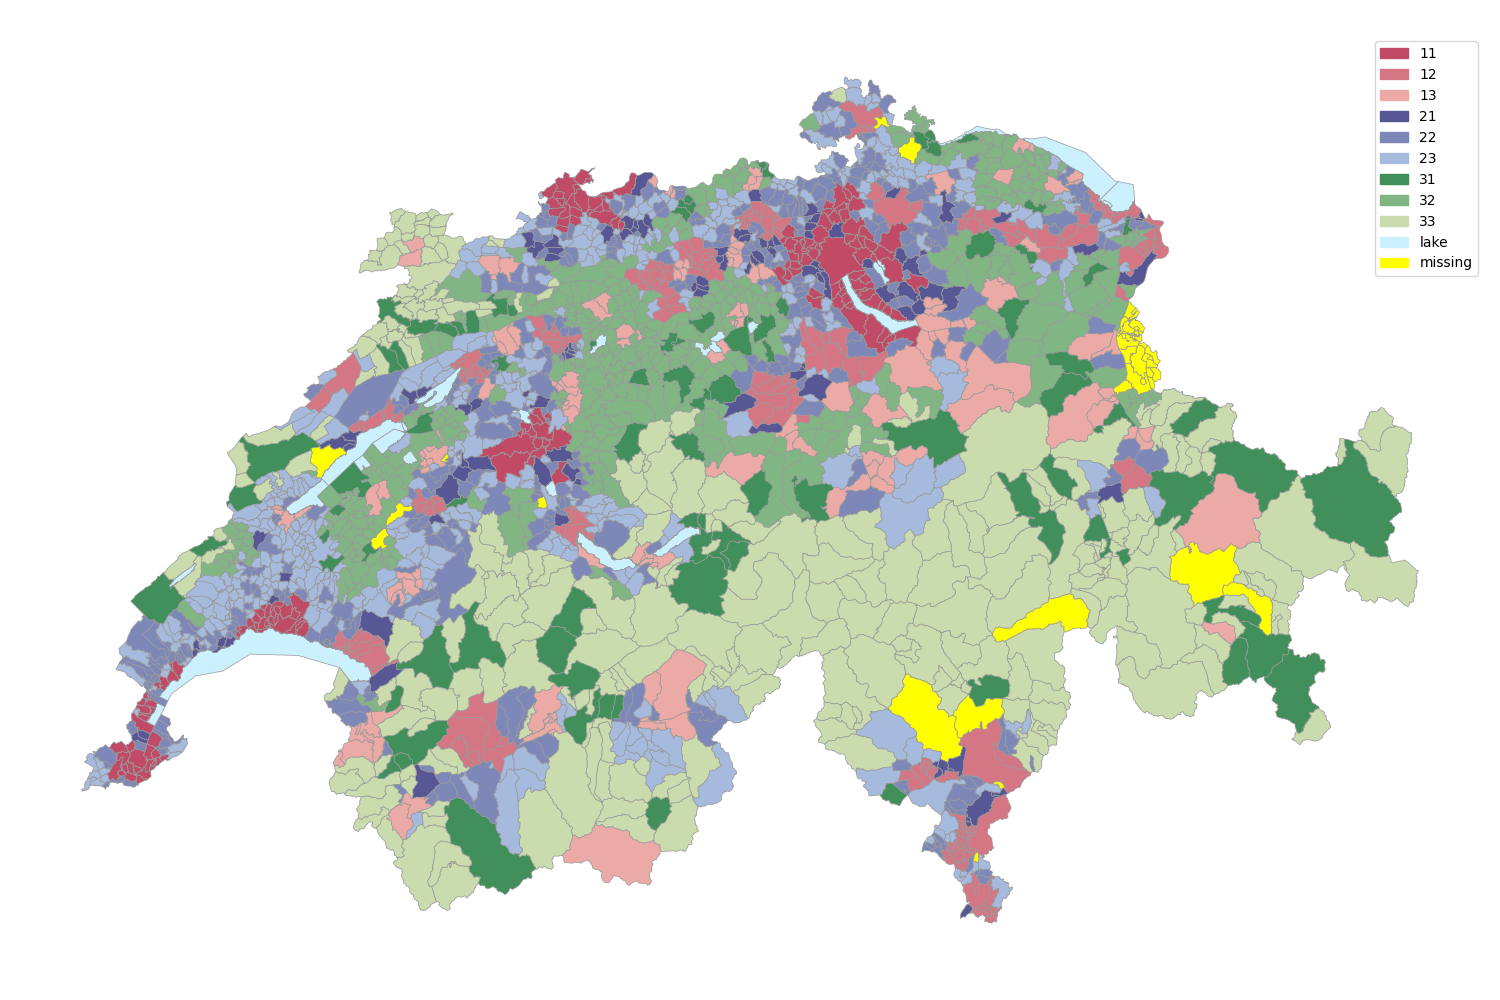
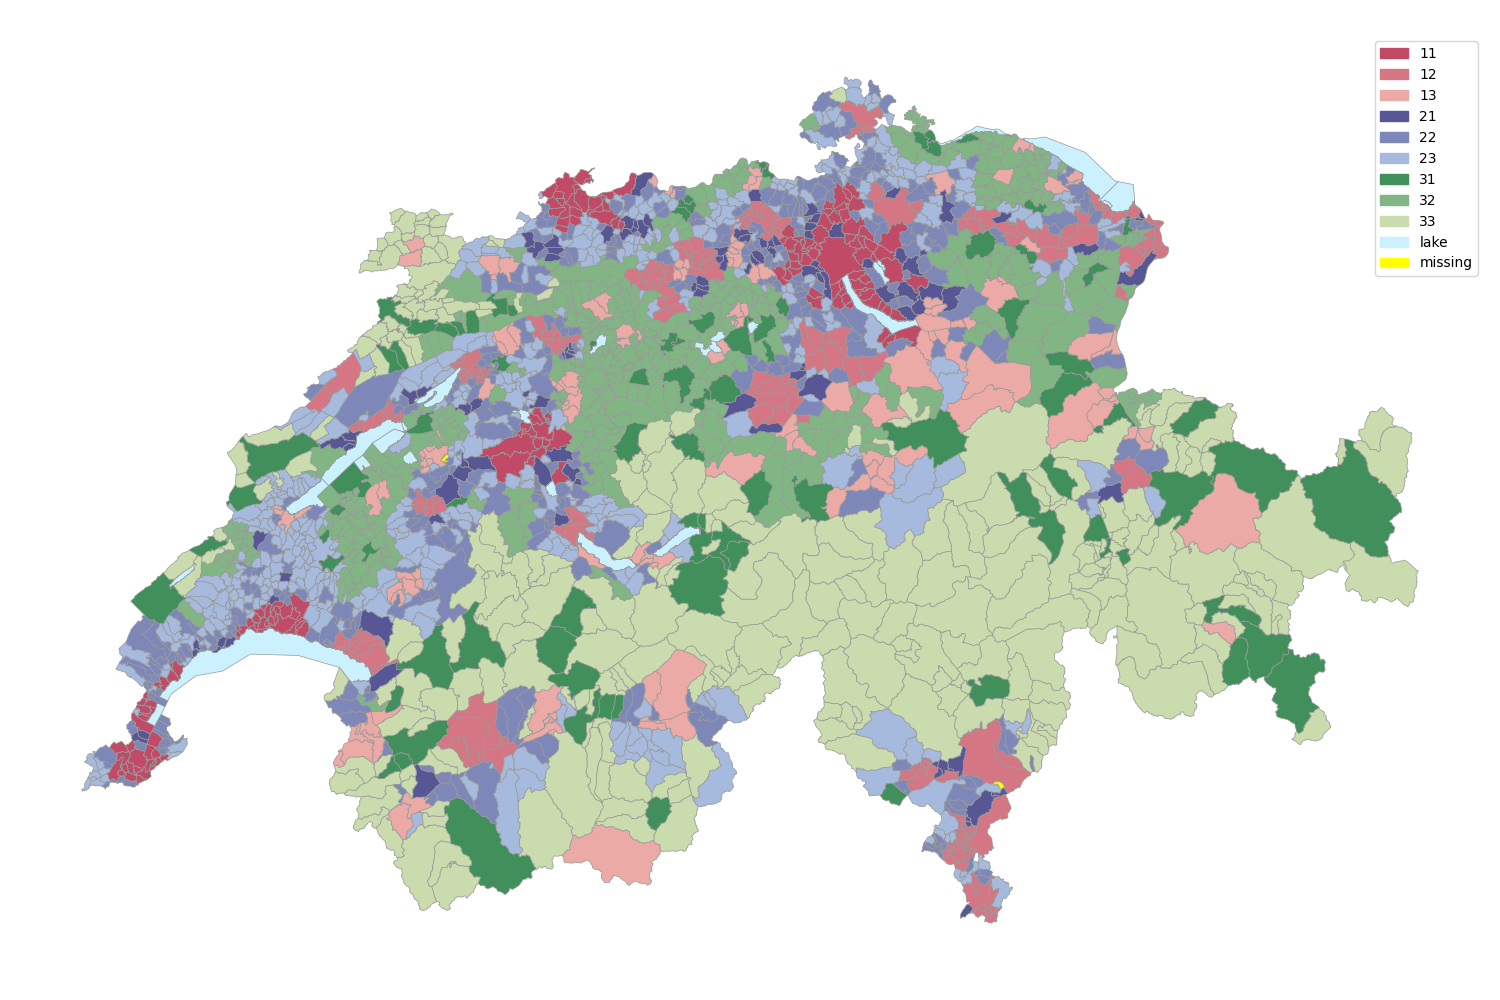
Use municipality id from the geodata

diff --git a/swiss_municipalities/load_data.py b/swiss_municipalities/load_data.py
@@ -2,8 +2,7 @@ import geopandas as gpd
 from geopandas import GeoDataFrame
 
 from swiss_municipalities.colormap import type_to_color, municipality_type_legend_handles
-from swiss_municipalities.names import id_to_name
-from swiss_municipalities.types import id_to_type
+from swiss_municipalities.typologies import id_to_typology
 
 _lake_names = [
     "Lac Léman (VD)",
@@ -44,34 +43,10 @@ def _is_lake(name: str) -> bool:
 def get_data() -> GeoDataFrame:
     data = gpd.read_file("./src/swissBOUNDARIES3D_1_3_TLM_HOHEITSGEBIET.shp")
 
-    name_to_id = {value: key for key, value in id_to_name.items()}
+    # We are only interested in Swiss Municipalities
+    data = data[data["ICC"] == "CH"]
 
-    # The data sources do not match exactly with the municipalities
-    # There were some mergers of municipalities into larger ones on 1st Jan 2020
-    # Here we try to partially fix a few examples, but we were not able to fix all
-    # https://en.wikipedia.org/wiki/Thurnen,_Bern
-    # https://en.wikipedia.org/wiki/Villaz-Saint-Pierre
-    # https://en.wikipedia.org/wiki/Villaz-Saint-Pierre
-    # https://en.wikipedia.org/wiki/Prez-vers-Nor%C3%A9az
-    name_to_id_fix = {
-        "Verzasca": 5095,
-        "Bergün Filisur": 3522,
-        "La Punt Chamues-ch": 3785,
-        "Stammheim": 36,
-        "Prez": 2221,
-        "Villaz": 2111,
-        "Büsingen am Hochrhein": 7101,
-        "Thurnen": 873,
-        "Comunanza Cadenazzo/Monteceneri": 5391,
-        "Campione d'Italia": 7301,
-        "Comunanza Capriasca/Lugano": 5394
-    }
-
-    name_to_id.update(name_to_id_fix)
-
-    data["ID"] = data["NAME"].apply(name_to_id.get)
-
-    data["TYPE"] = data["ID"].apply(id_to_type.get)
+    data["TYPE"] = data["BFS_NUMMER"].apply(id_to_typology.get)
     data.loc[data["NAME"].apply(_is_lake), "TYPE"] = "lake"
 
     data["COLOR"] = data["TYPE"].apply(type_to_color.get)

diff --git a/swiss_municipalities/typologies.py b/swiss_municipalities/typologies.py
@@ -1,0 +1,36 @@
+import json
+from statistics import mode
+
+with open("./src/id_to_type.json") as id_to_type_file:
+    id_to_type_raw = json.load(id_to_type_file)
+
+id_to_typology = {int(municipality_id.replace("|", "")): municipality_info["value"]
+                  for municipality_id, municipality_info in id_to_type_raw["values"].items()}
+
+# Manually rewrote from wikipedia, e.g.
+# https://en.wikipedia.org/wiki/Villaz,_Switzerland -- copy the SFOS number of the municipalities that resulted in the
+# merged one
+_merged_municipalities = {
+    5399: [5135, 5129, 5102, 5095, 5105],  # Verzasca
+    3544: [3521, 3522],  # Bergün Filisur
+    3714: [3691, 3693, 3694],  # Rheinwald
+    5287: [5286, 5285, 5284, 5283],  # Riviera
+    6417: [6402, 6409, 6410, 6411, 6414, 6415],  # La Grande-Béroche
+    293: [134, 140],  # Wädenswil
+    295: [132],  # Horgen
+    294: [222],  # Elgg
+    292: [44, 36, 42],  # Stammheim
+    2237: [2185, 2213, 2221],  # Prez
+    2117: [2111, 2116],  # Villaz
+    889: [873, 874, 876],  # Thurnen
+
+    # For the following there is just no typology to be found anywhere
+    5391: None,  # Comunanza Cadenazzo/Monteceneri
+    5394: None,  # Comunanza Capriasca/Lugano
+    2391: None,  # Staatswald Galm -- does not belong to any municipality
+}
+
+_merged_id_to_typology = {munic_id: mode(list(map(id_to_typology.get, former_ids))) if former_ids is not None else None
+                          for munic_id, former_ids in _merged_municipalities.items()}
+
+id_to_typology.update(_merged_id_to_typology)

diff --git a/README.md b/README.md
@@ -8,8 +8,21 @@ from the websites of:
 - [Bundesamt für Landestopografie](https://shop.swisstopo.admin.ch/de/products/landscape/boundaries3D)
 - [Bundesamt für Statistik](https://www.atlas.bfs.admin.ch/maps/13/de/12360_12482_3191_227/20593.html)
 
+## Requirements
+
+Developed with `python = 3.8`, to install the required libraries run
+
+```
+python -m pip install -r requirements.txt
+```
+
 ## Missing Data
 
 For some municipalities we have missing data about the typology, you can check the state of the missing values on the
-map below.
-![](./src/map.png)
+map below, which can be produced by going in the folder `swiss-municipalities` and running
+
+```
+python ./swiss_municipalities/load_data.py
+```
+
+![](src/map.png)
